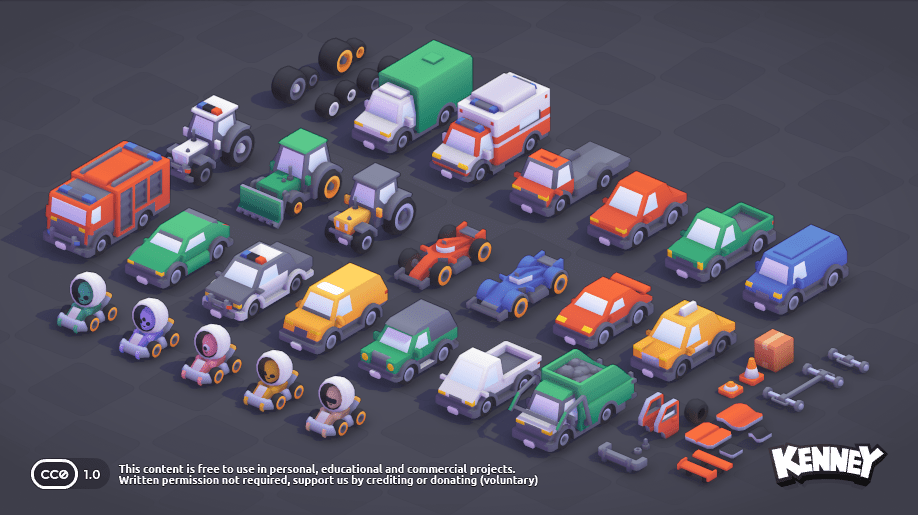
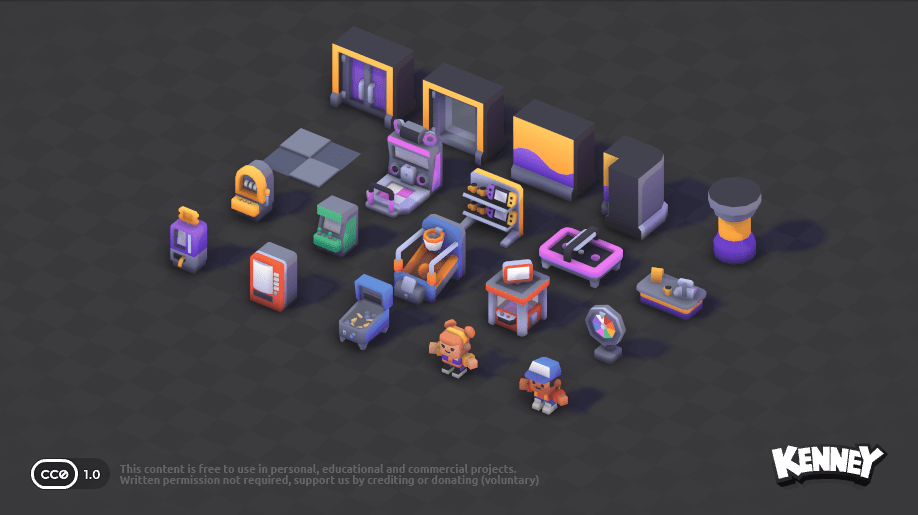
Add files via upload

diff --git a/Overview.html b/Overview.html
@@ -4,7 +4,7 @@
 <head>
 	<meta charset="utf-8">
 
-	<title>Car Kit</title>
+	<title>Mini Arcade</title>
 	
 	<meta name="description" content="Game assets overview">
 	<meta name="author" content="Kenney">
@@ -13,7 +13,7 @@
 
 <body>
 
-	<div class='container header'><h1>Car Kit</h1></div>
+	<div class='container header'><h1>Mini Arcade</h1></div>
 	
 	<div class='container content'>
 	
@@ -22,7 +22,7 @@
 		<p>Hover over models to show details, for the documentation see the <a target='_blank' href='https://kenney.nl/knowledge-base/game-assets-3d/importing-3d-models-into-game-engines'>knowledge base</a>.</p>
 		
 		<p>
-			<span class='data'><strong>Total objects:</strong> 50×</span><span class='data'><strong>Total animations:</strong> 0×</span>
+			<span class='data'><strong>Total objects:</strong> 20×</span><span class='data'><strong>Total animations:</strong> 70×</span>
 		</p>
 		
 	</div>
@@ -31,7 +31,7 @@
 	
 		<p><strong>Textures</strong></p>
 		
-		<p><a href='Models/FBX format/Textures/colormap.png' target='_blank' class='data no-padding'><span class='swatch' style='background-image: url("Models/FBX format/Textures/colormap.png")'></span>colormap</a></p>
+		<p><a href='Models/FBX format/Textures/colormap.png' target='_blank' class='data no-padding'><span class='swatch' style='background-image: url("Models/FBX format/Textures/colormap.png")'></span>colormap</a><a href='Models/Textures/variation-a.png' target='_blank' class='data no-padding'><span class='swatch' style='background-image: url("Models/Textures/variation-a.png")'></span>variation-a</a><a href='Models/Textures/variation-b.png' target='_blank' class='data no-padding'><span class='swatch' style='background-image: url("Models/Textures/variation-b.png")'></span>variation-b</a></p>
 		
 	</div>
 	
@@ -39,56 +39,26 @@
 	
 		<p style='margin-bottom:2em'><strong>Models</strong></p>
 		
-		<div title='4328 vertices • 6 group(s) • 0 animation(s)' class='package'><img src='Previews/ambulance.png'/><br>ambulance</div>
-<div title='248 vertices • 0 group(s) • 0 animation(s)' class='package'><img src='Previews/box.png'/><br>box</div>
-<div title='288 vertices • 0 group(s) • 0 animation(s)' class='package'><img src='Previews/cone.png'/><br>cone</div>
-<div title='288 vertices • 0 group(s) • 0 animation(s)' class='package'><img src='Previews/cone-flat.png'/><br>cone-flat</div>
-<div title='60 vertices • 0 group(s) • 0 animation(s)' class='package'><img src='Previews/debris-bolt.png'/><br>debris-bolt</div>
-<div title='192 vertices • 0 group(s) • 0 animation(s)' class='package'><img src='Previews/debris-bumper.png'/><br>debris-bumper</div>
-<div title='106 vertices • 0 group(s) • 0 animation(s)' class='package'><img src='Previews/debris-door.png'/><br>debris-door</div>
-<div title='116 vertices • 0 group(s) • 0 animation(s)' class='package'><img src='Previews/debris-door-window.png'/><br>debris-door-window</div>
-<div title='680 vertices • 0 group(s) • 0 animation(s)' class='package'><img src='Previews/debris-drivetrain.png'/><br>debris-drivetrain</div>
-<div title='328 vertices • 0 group(s) • 0 animation(s)' class='package'><img src='Previews/debris-drivetrain-axle.png'/><br>debris-drivetrain-axle</div>
-<div title='60 vertices • 0 group(s) • 0 animation(s)' class='package'><img src='Previews/debris-nut.png'/><br>debris-nut</div>
-<div title='66 vertices • 0 group(s) • 0 animation(s)' class='package'><img src='Previews/debris-plate-a.png'/><br>debris-plate-a</div>
-<div title='72 vertices • 0 group(s) • 0 animation(s)' class='package'><img src='Previews/debris-plate-b.png'/><br>debris-plate-b</div>
-<div title='48 vertices • 0 group(s) • 0 animation(s)' class='package'><img src='Previews/debris-plate-small-a.png'/><br>debris-plate-small-a</div>
-<div title='72 vertices • 0 group(s) • 0 animation(s)' class='package'><img src='Previews/debris-plate-small-b.png'/><br>debris-plate-small-b</div>
-<div title='78 vertices • 0 group(s) • 0 animation(s)' class='package'><img src='Previews/debris-spoiler-a.png'/><br>debris-spoiler-a</div>
-<div title='138 vertices • 0 group(s) • 0 animation(s)' class='package'><img src='Previews/debris-spoiler-b.png'/><br>debris-spoiler-b</div>
-<div title='480 vertices • 0 group(s) • 0 animation(s)' class='package'><img src='Previews/debris-tire.png'/><br>debris-tire</div>
-<div title='4530 vertices • 5 group(s) • 0 animation(s)' class='package'><img src='Previews/delivery.png'/><br>delivery</div>
-<div title='4004 vertices • 4 group(s) • 0 animation(s)' class='package'><img src='Previews/delivery-flat.png'/><br>delivery-flat</div>
-<div title='4338 vertices • 5 group(s) • 0 animation(s)' class='package'><img src='Previews/firetruck.png'/><br>firetruck</div>
-<div title='5003 vertices • 6 group(s) • 0 animation(s)' class='package'><img src='Previews/garbage-truck.png'/><br>garbage-truck</div>
-<div title='3709 vertices • 4 group(s) • 0 animation(s)' class='package'><img src='Previews/hatchback-sports.png'/><br>hatchback-sports</div>
-<div title='4699 vertices • 5 group(s) • 0 animation(s)' class='package'><img src='Previews/kart-oobi.png'/><br>kart-oobi</div>
-<div title='4291 vertices • 5 group(s) • 0 animation(s)' class='package'><img src='Previews/kart-oodi.png'/><br>kart-oodi</div>
-<div title='4343 vertices • 5 group(s) • 0 animation(s)' class='package'><img src='Previews/kart-ooli.png'/><br>kart-ooli</div>
-<div title='4399 vertices • 5 group(s) • 0 animation(s)' class='package'><img src='Previews/kart-oopi.png'/><br>kart-oopi</div>
-<div title='4495 vertices • 5 group(s) • 0 animation(s)' class='package'><img src='Previews/kart-oozi.png'/><br>kart-oozi</div>
-<div title='3606 vertices • 5 group(s) • 0 animation(s)' class='package'><img src='Previews/police.png'/><br>police</div>
-<div title='3090 vertices • 4 group(s) • 0 animation(s)' class='package'><img src='Previews/race.png'/><br>race</div>
-<div title='3198 vertices • 4 group(s) • 0 animation(s)' class='package'><img src='Previews/race-future.png'/><br>race-future</div>
-<div title='3184 vertices • 4 group(s) • 0 animation(s)' class='package'><img src='Previews/sedan.png'/><br>sedan</div>
-<div title='3268 vertices • 5 group(s) • 0 animation(s)' class='package'><img src='Previews/sedan-sports.png'/><br>sedan-sports</div>
-<div title='3836 vertices • 5 group(s) • 0 animation(s)' class='package'><img src='Previews/suv.png'/><br>suv</div>
-<div title='3254 vertices • 4 group(s) • 0 animation(s)' class='package'><img src='Previews/suv-luxury.png'/><br>suv-luxury</div>
-<div title='3250 vertices • 4 group(s) • 0 animation(s)' class='package'><img src='Previews/taxi.png'/><br>taxi</div>
-<div title='3260 vertices • 4 group(s) • 0 animation(s)' class='package'><img src='Previews/tractor.png'/><br>tractor</div>
-<div title='3630 vertices • 5 group(s) • 0 animation(s)' class='package'><img src='Previews/tractor-police.png'/><br>tractor-police</div>
-<div title='4130 vertices • 5 group(s) • 0 animation(s)' class='package'><img src='Previews/tractor-shovel.png'/><br>tractor-shovel</div>
-<div title='3264 vertices • 4 group(s) • 0 animation(s)' class='package'><img src='Previews/truck.png'/><br>truck</div>
-<div title='3868 vertices • 4 group(s) • 0 animation(s)' class='package'><img src='Previews/truck-flat.png'/><br>truck-flat</div>
-<div title='3250 vertices • 4 group(s) • 0 animation(s)' class='package'><img src='Previews/van.png'/><br>van</div>
-<div title='528 vertices • 0 group(s) • 0 animation(s)' class='package'><img src='Previews/wheel-dark.png'/><br>wheel-dark</div>
-<div title='480 vertices • 0 group(s) • 0 animation(s)' class='package'><img src='Previews/wheel-default.png'/><br>wheel-default</div>
-<div title='528 vertices • 0 group(s) • 0 animation(s)' class='package'><img src='Previews/wheel-racing.png'/><br>wheel-racing</div>
-<div title='672 vertices • 0 group(s) • 0 animation(s)' class='package'><img src='Previews/wheel-tractor-back.png'/><br>wheel-tractor-back</div>
-<div title='672 vertices • 0 group(s) • 0 animation(s)' class='package'><img src='Previews/wheel-tractor-dark-back.png'/><br>wheel-tractor-dark-back</div>
-<div title='528 vertices • 0 group(s) • 0 animation(s)' class='package'><img src='Previews/wheel-tractor-dark-front.png'/><br>wheel-tractor-dark-front</div>
-<div title='528 vertices • 0 group(s) • 0 animation(s)' class='package'><img src='Previews/wheel-tractor-front.png'/><br>wheel-tractor-front</div>
-<div title='624 vertices • 0 group(s) • 0 animation(s)' class='package'><img src='Previews/wheel-truck.png'/><br>wheel-truck</div>
+		<div title='716 vertices • 3 group(s) • 0 animation(s)' class='package'><img src='Previews/air-hockey.png'/><br>air-hockey</div>
+<div title='724 vertices • 0 group(s) • 0 animation(s)' class='package'><img src='Previews/arcade-machine.png'/><br>arcade-machine</div>
+<div title='910 vertices • 1 group(s) • 0 animation(s)' class='package'><img src='Previews/basketball-game.png'/><br>basketball-game</div>
+<div title='454 vertices • 0 group(s) • 0 animation(s)' class='package'><img src='Previews/cash-register.png'/><br>cash-register</div>
+<div title='898 vertices • 1 group(s) • 32 animation(s)' class='package'><span class='animated'>Animated</span><img src='Previews/character-employee.png'/><br>character-employee</div>
+<div title='844 vertices • 1 group(s) • 32 animation(s)' class='package'><span class='animated'>Animated</span><img src='Previews/character-gamer.png'/><br>character-gamer</div>
+<div title='1304 vertices • 2 group(s) • 1 animation(s)' class='package'><span class='animated'>Animated</span><img src='Previews/claw-machine.png'/><br>claw-machine</div>
+<div title='336 vertices • 0 group(s) • 0 animation(s)' class='package'><img src='Previews/column.png'/><br>column</div>
+<div title='1158 vertices • 1 group(s) • 0 animation(s)' class='package'><img src='Previews/dance-machine.png'/><br>dance-machine</div>
+<div title='46 vertices • 0 group(s) • 0 animation(s)' class='package'><img src='Previews/floor.png'/><br>floor</div>
+<div title='1031 vertices • 0 group(s) • 0 animation(s)' class='package'><img src='Previews/gambling-machine.png'/><br>gambling-machine</div>
+<div title='1084 vertices • 1 group(s) • 0 animation(s)' class='package'><img src='Previews/pinball.png'/><br>pinball</div>
+<div title='370 vertices • 1 group(s) • 1 animation(s)' class='package'><span class='animated'>Animated</span><img src='Previews/prize-wheel.png'/><br>prize-wheel</div>
+<div title='784 vertices • 0 group(s) • 0 animation(s)' class='package'><img src='Previews/prizes.png'/><br>prizes</div>
+<div title='465 vertices • 1 group(s) • 1 animation(s)' class='package'><span class='animated'>Animated</span><img src='Previews/ticket-machine.png'/><br>ticket-machine</div>
+<div title='280 vertices • 0 group(s) • 0 animation(s)' class='package'><img src='Previews/vending-machine.png'/><br>vending-machine</div>
+<div title='68 vertices • 0 group(s) • 0 animation(s)' class='package'><img src='Previews/wall.png'/><br>wall</div>
+<div title='118 vertices • 0 group(s) • 0 animation(s)' class='package'><img src='Previews/wall-corner.png'/><br>wall-corner</div>
+<div title='500 vertices • 3 group(s) • 3 animation(s)' class='package'><span class='animated'>Animated</span><img src='Previews/wall-door-rotate.png'/><br>wall-door-rotate</div>
+<div title='240 vertices • 1 group(s) • 0 animation(s)' class='package'><img src='Previews/wall-window.png'/><br>wall-window</div>
 
 		
 	</div>